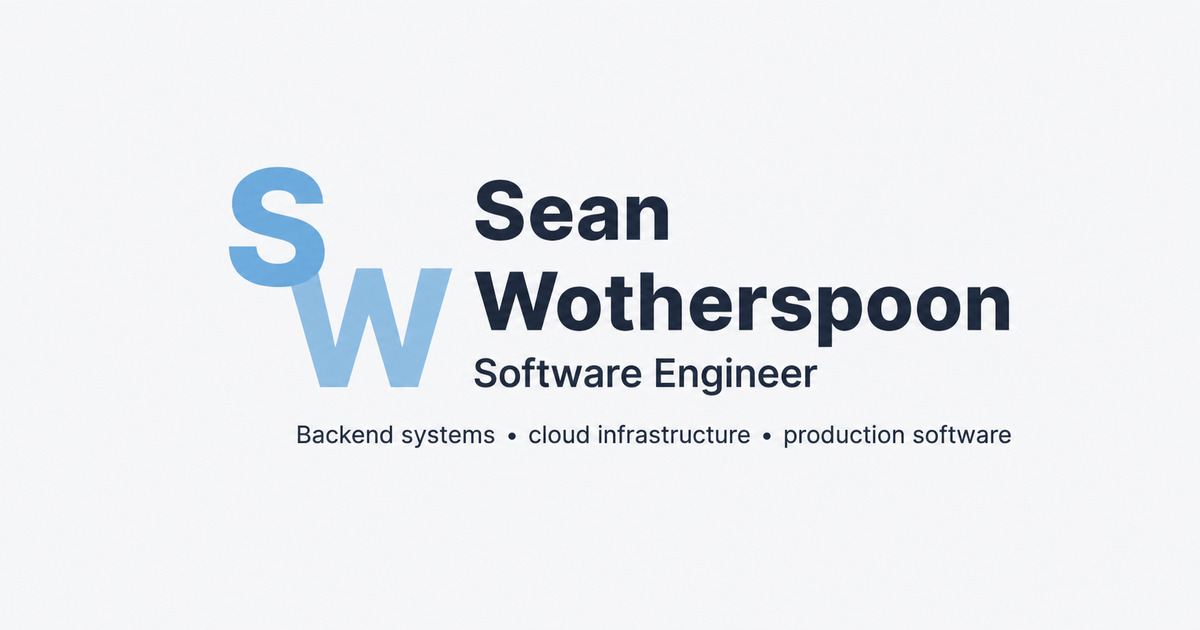
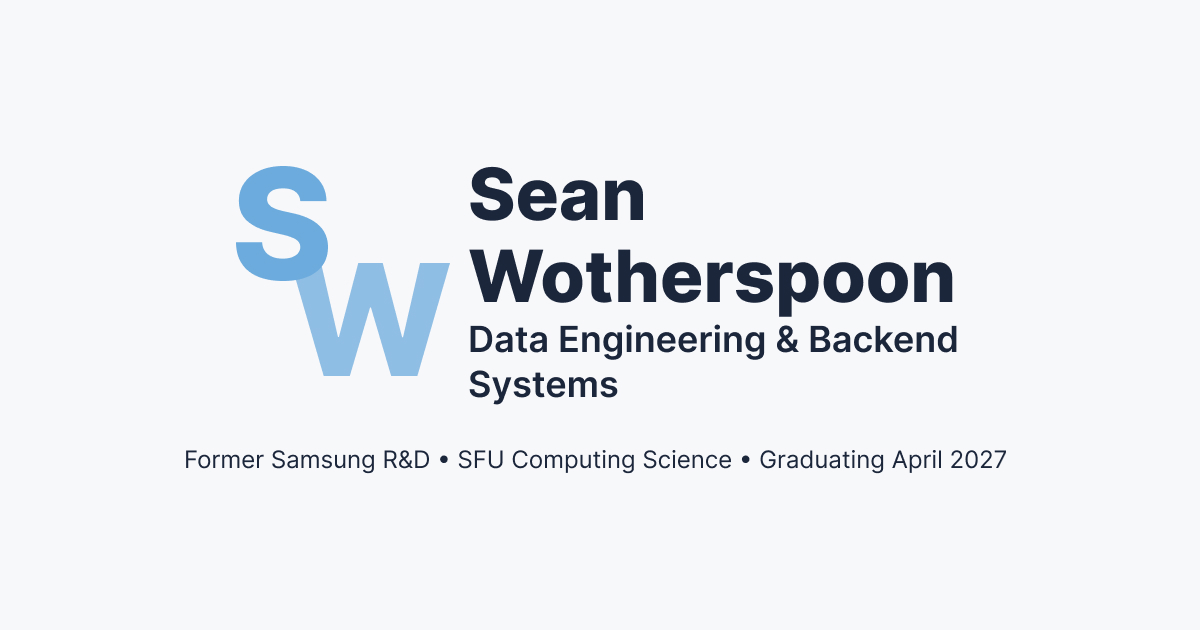
Update SEO and og image

Changed region(s): [[0.185, 0.2413, 0.8633, 0.6333], [0.1542, 0.6635, 0.8633, 0.754]]

diff --git a/index.html b/index.html
@@ -1,5 +1,5 @@
 <!doctype html>
-<html lang="en">
+<html lang="en-CA">
   <head>
     <meta charset="UTF-8" />
     <meta
@@ -7,74 +7,127 @@
       content="width=device-width, initial-scale=1"
     />
 
-    <!-- Title & SEO -->
-    <title>Sean Wotherspoon | Software Engineer</title>
+    <!-- Primary metadata -->
+    <title>Sean Wotherspoon | Data Engineering & Backend Systems</title>
     <meta
       name="description"
-      content="Software engineer in Metro Vancouver with professional data engineering experience at Samsung R&D Canada, building backend systems, cloud infrastructure, and production software products."
+      content="SFU Computing Science student and former Samsung R&D data engineering co-op building reliable data pipelines and backend systems. Graduating April 2027."
     />
-    <link rel="canonical" href="https://seanwotherspoon.ca/" />
-    <meta name="robots" content="index,follow" />
-
-    <meta name="keywords" content="Sean Wotherspoon, Software Engineer, Backend Engineer, Data Engineer, Cloud Infrastructure, AWS, Vancouver" />
     <meta name="author" content="Sean Wotherspoon" />
+    <meta name="robots" content="index, follow" />
+    <link rel="canonical" href="https://seanwotherspoon.ca/" />
 
     <!-- Favicons -->
-    <link rel="icon" type="image/png" sizes="32x32" href="/favicon-32x32.png" />
-    <link rel="icon" type="image/png" sizes="16x16" href="/favicon-16x16.png" />
+    <link
+      rel="icon"
+      type="image/png"
+      sizes="32x32"
+      href="/favicon-32x32.png"
+    />
+    <link
+      rel="icon"
+      type="image/png"
+      sizes="16x16"
+      href="/favicon-16x16.png"
+    />
     <link rel="icon" type="image/x-icon" href="/favicon.ico" />
-    <link rel="apple-touch-icon" sizes="180x180" href="/apple-touch-icon.png" />
+    <link
+      rel="apple-touch-icon"
+      sizes="180x180"
+      href="/apple-touch-icon.png"
+    />
 
     <!-- Theming -->
     <meta name="theme-color" content="#FAF9F7" />
     <meta name="color-scheme" content="light" />
 
     <!-- Open Graph -->
-    <meta property="og:title" content="Sean Wotherspoon | Software Engineer" />
-    <meta property="og:description" content="Software engineer with professional data engineering experience at Samsung R&D Canada, building backend systems, cloud infrastructure, and production software." />
+    <meta
+      property="og:title"
+      content="Sean Wotherspoon | Data Engineering & Backend Systems"
+    />
+    <meta
+      property="og:description"
+      content="Former Samsung R&D data engineering co-op and SFU Computing Science student building reliable data pipelines and backend systems."
+    />
     <meta property="og:url" content="https://seanwotherspoon.ca/" />
     <meta property="og:type" content="website" />
-    <meta property="og:image" content="https://seanwotherspoon.ca/og-image.jpg" />
+    <meta property="og:site_name" content="Sean Wotherspoon" />
+    <meta property="og:locale" content="en_CA" />
+    <meta
+      property="og:image"
+      content="https://seanwotherspoon.ca/og-image.jpg"
+    />
+    <meta
+      property="og:image:secure_url"
+      content="https://seanwotherspoon.ca/og-image.jpg"
+    />
+    <meta property="og:image:type" content="image/jpeg" />
     <meta property="og:image:width" content="1200" />
     <meta property="og:image:height" content="630" />
-    <meta property="og:site_name" content="Sean Wotherspoon" />
+    <meta
+      property="og:image:alt"
+      content="Sean Wotherspoon — Data Engineering and Backend Systems"
+    />
 
-    <!-- Twitter -->
+    <!-- X / Twitter -->
     <meta name="twitter:card" content="summary_large_image" />
-    <meta name="twitter:title" content="Sean Wotherspoon | Software Engineer" />
-    <meta name="twitter:description" content="Software engineer with professional data engineering experience at Samsung R&D Canada, building backend systems, cloud infrastructure, and production software." />
-    <meta name="twitter:image" content="https://seanwotherspoon.ca/og-image.jpg" />
+    <meta
+      name="twitter:title"
+      content="Sean Wotherspoon | Data Engineering & Backend Systems"
+    />
+    <meta
+      name="twitter:description"
+      content="Former Samsung R&D data engineering co-op and SFU Computing Science student building reliable data pipelines and backend systems."
+    />
+    <meta
+      name="twitter:image"
+      content="https://seanwotherspoon.ca/og-image.jpg"
+    />
+    <meta
+      name="twitter:image:alt"
+      content="Sean Wotherspoon — Data Engineering and Backend Systems"
+    />
 
+    <!-- Structured data -->
     <script type="application/ld+json">
       {
         "@context": "https://schema.org",
-        "@type": "Person",
-        "name": "Sean Wotherspoon",
+        "@type": "ProfilePage",
         "url": "https://seanwotherspoon.ca/",
-        "jobTitle": "Software Engineer",
-        "description": "Software engineer with professional data engineering experience at Samsung R&D Canada, completing a Computing Science degree at Simon Fraser University in April 2027.",
-        "email": "mailto:seangwotherspoon3@gmail.com",
-        "address": {
-          "@type": "PostalAddress",
-          "addressRegion": "British Columbia",
-          "addressCountry": "CA"
-        },
-        "affiliation": {
-          "@type": "CollegeOrUniversity",
-          "name": "Simon Fraser University"
-        },
-        "sameAs": [
-          "https://github.com/Seanspoons",
-          "https://linkedin.com/in/sean-wotherspoon"
-        ],
-        "knowsAbout": [
-          "Backend systems",
-          "Data engineering",
-          "Cloud infrastructure",
-          "Apache Spark",
-          "Apache Airflow",
-          "AWS"
-        ]
+        "name": "Sean Wotherspoon | Data Engineering & Backend Systems",
+        "mainEntity": {
+          "@type": "Person",
+          "name": "Sean Wotherspoon",
+          "url": "https://seanwotherspoon.ca/",
+          "email": "mailto:seangwotherspoon3@gmail.com",
+          "description": "SFU Computing Science student and former Samsung R&D data engineering co-op focused on reliable data pipelines and backend systems.",
+          "address": {
+            "@type": "PostalAddress",
+            "addressRegion": "British Columbia",
+            "addressCountry": "CA"
+          },
+          "affiliation": {
+            "@type": "CollegeOrUniversity",
+            "name": "Simon Fraser University",
+            "url": "https://www.sfu.ca/"
+          },
+          "sameAs": [
+            "https://github.com/Seanspoons",
+            "https://www.linkedin.com/in/sean-wotherspoon/"
+          ],
+          "knowsAbout": [
+            "Data engineering",
+            "Backend systems",
+            "Apache Spark",
+            "Apache Airflow",
+            "Apache Iceberg",
+            "Scala",
+            "SQL",
+            "Cloud infrastructure",
+            "Amazon Web Services"
+          ]
+        }
       }
     </script>
   </head>
